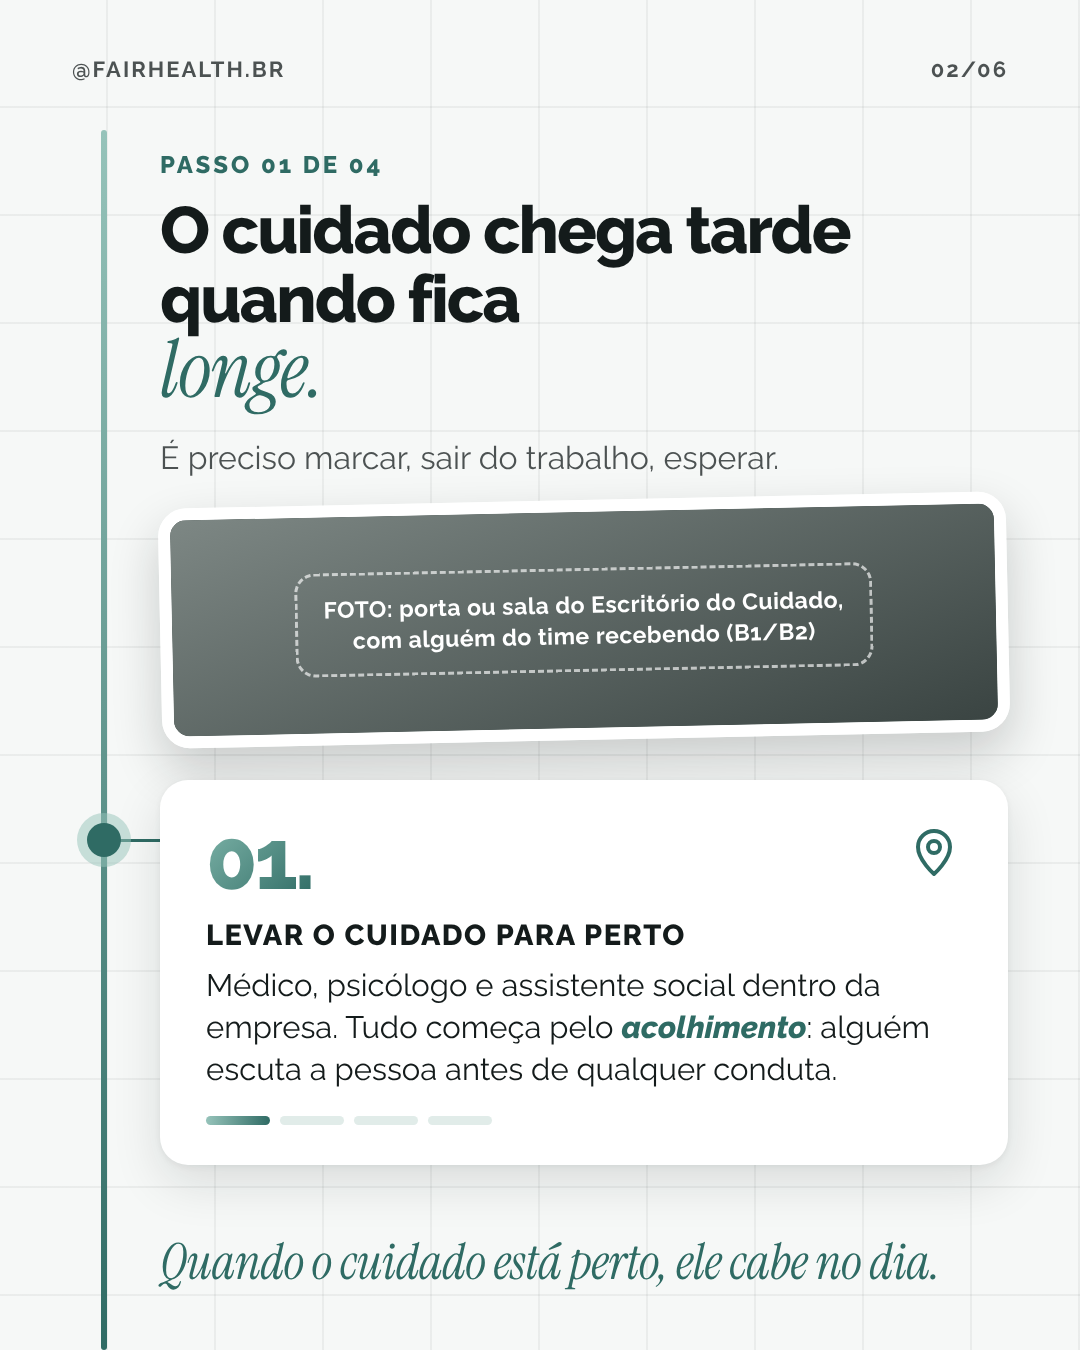
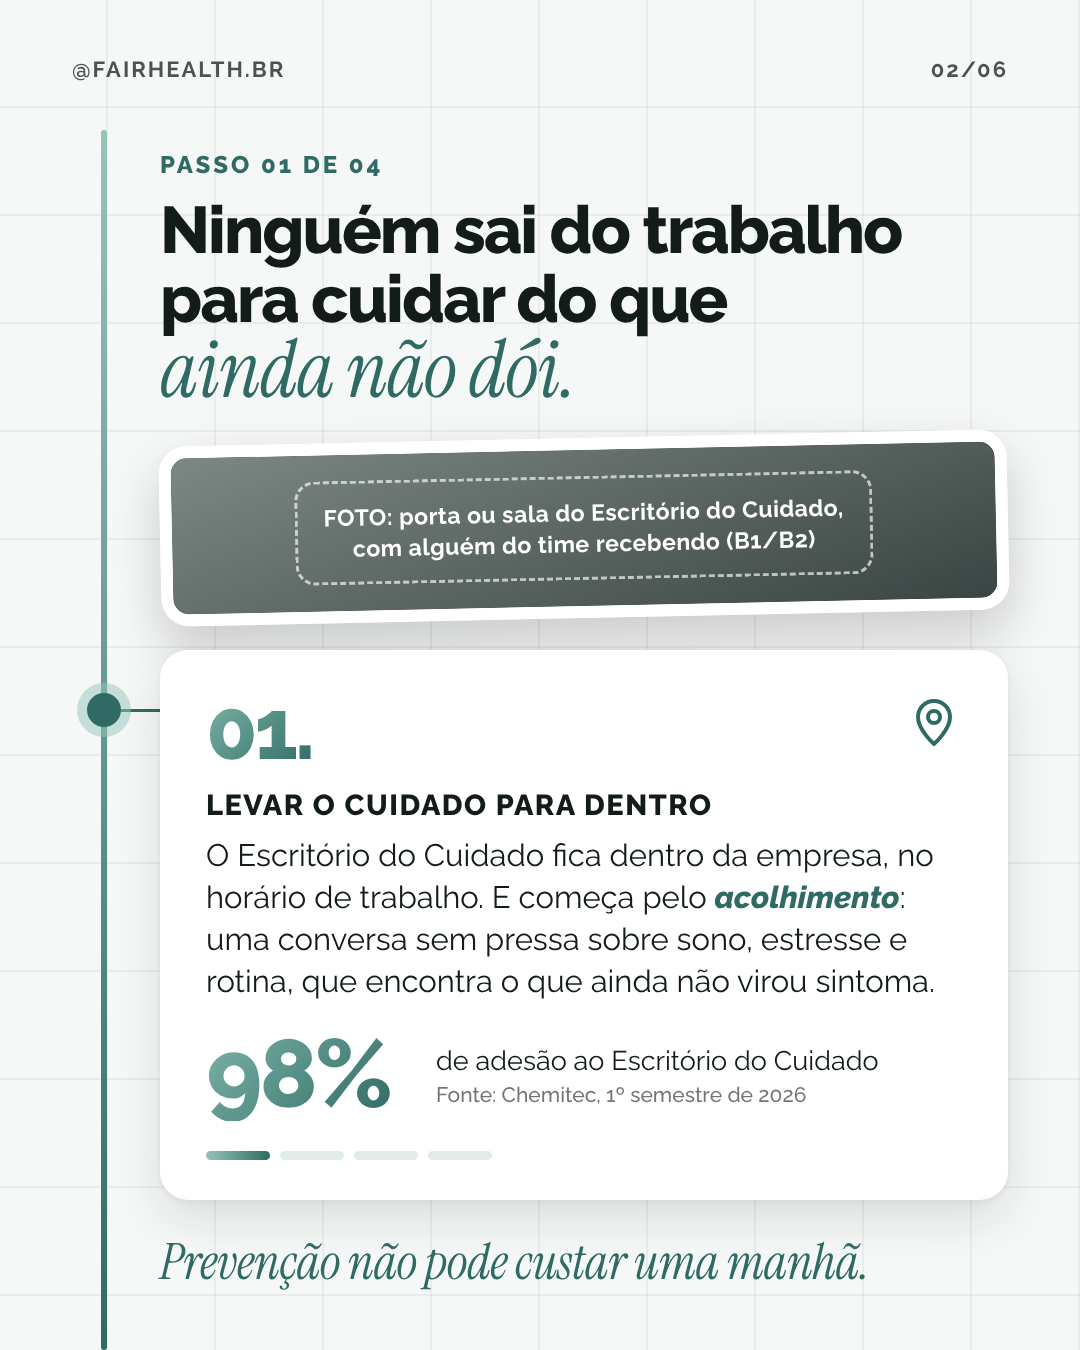
30/10 slide 2: stronger argument (nobody leaves work for what does not hurt yet) with Chemitec adhesion proof
Claude-Session: https://claude.ai/code/session_01WTGmTaRhjyKBgMjzkeci7z

Changed region(s): [[0.0611, 0.1556, 0.9472, 0.9644], [0.0611, 0.5911, 0.1222, 0.6533]]

diff --git a/instagram/posts/rotina/canva.html b/instagram/posts/rotina/canva.html
@@ -155,26 +155,30 @@ body{background:none;margin:0}
   <p class="pil-t" style="left:72px;bottom:115px;width:716px;font-size:30px;color:#fff">4 passos para o cuidado <b>sair da campanha</b> →</p>
 </section>
 
-<!-- 2 · PASSO 01: o problema (o cuidado chega tarde porque fica longe) e o acolhimento.
+<!-- 2 · PASSO 01: por que a prevenção não acontece (ninguém sai do trabalho pelo que não dói),
+     o Escritório dentro da empresa, o acolhimento e a prova de adesão.
      Nos títulos, cada linha é explícita e o trecho em serif fica numa caixa própria (o Canva
      não mistura fontes numa caixa só). -->
 <section data-document-role="page" class="slide ed grade" id="r-02">
   <div class="topo"><span>@fairhealth.br</span><span>02/06</span></div>
   <div class="trilho"></div>
   <p class="rotulo abs" style="left:160px;top:150px">Passo 01 de 04</p>
-  <h2 class="h tit" style="top:196px">O cuidado chega tarde<br>quando fica</h2>
-  <p class="serif tit-s" style="top:330px">longe.</p>
-  <p class="txt abs" style="left:160px;right:72px;top:436px;opacity:.75">É preciso marcar, sair do trabalho, esperar.</p>
-  <div class="recorte" style="top:500px;height:240px"><div class="img" id="foto-2"><div class="aviso">FOTO: porta ou sala do Escritório do Cuidado,<br>com alguém do time recebendo (B1/B2)</div></div></div>
-  <div class="ponto" style="top:840px"></div><div class="liga" style="top:840px"></div>
-  <div class="cartao" style="top:780px">
+  <h2 class="h tit" style="top:196px">Ninguém sai do trabalho<br>para cuidar do que</h2>
+  <p class="serif tit-s" style="top:330px">ainda não dói.</p>
+  <div class="recorte" style="top:438px;height:180px"><div class="img" id="foto-2"><div class="aviso">FOTO: porta ou sala do Escritório do Cuidado,<br>com alguém do time recebendo (B1/B2)</div></div></div>
+  <div class="ponto" style="top:710px"></div><div class="liga" style="top:710px"></div>
+  <div class="cartao" style="top:650px">
     <span class="n">01.</span>
     <div class="ic"><svg viewBox="0 0 56 56" fill="none" stroke="#2F6B64" stroke-width="4" stroke-linecap="round" stroke-linejoin="round"><path d="M28 50s16-14 16-27a16 16 0 0 0-32 0c0 13 16 27 16 27z"/><circle cx="28" cy="23" r="6"/></svg></div>
-    <p class="t">Levar o cuidado para perto</p>
-    <p class="c">Médico, psicólogo e assistente social dentro da empresa. Tudo começa pelo <b>acolhimento</b>: alguém escuta a pessoa antes de qualquer conduta.</p>
+    <p class="t">Levar o cuidado para dentro</p>
+    <p class="c">O Escritório do Cuidado fica dentro da empresa, no horário de trabalho. E começa pelo <b>acolhimento</b>: uma conversa sem pressa sobre sono, estresse e rotina, que encontra o que ainda não virou sintoma.</p>
+    <div style="position:relative;height:100px;margin-top:22px">
+      <span class="n abs" style="left:0;top:0;font-size:96px">98%</span>
+      <div class="abs" style="left:230px;right:0;top:18px"><p class="c" style="margin:0;font-size:27px;line-height:1.3">de adesão ao Escritório do Cuidado</p><p class="fonte" style="margin-top:4px">Fonte: Chemitec, 1º semestre de 2026</p></div>
+    </div>
     <div class="barra"><i class="on"></i><i></i><i></i><i></i></div>
   </div>
-  <p class="fecho abs" style="left:160px;right:72px;bottom:62px">Quando o cuidado está perto, ele cabe no dia.</p>
+  <p class="fecho abs" style="left:160px;right:72px;bottom:62px">Prevenção não pode custar uma manhã.</p>
 </section>
 
 <!-- 3 · PASSO 02 + CTA: plantões com dia e hora. A semana é o visual do slide. -->

diff --git a/instagram/posts/rotina/slides.html b/instagram/posts/rotina/slides.html
@@ -112,26 +112,30 @@ body{background:none;margin:0}
   <p class="pil-t" style="left:72px;bottom:115px;width:716px;font-size:30px;color:#fff">4 passos para o cuidado <b>sair da campanha</b> →</p>
 </section>
 
-<!-- 2 · PASSO 01: o problema (o cuidado chega tarde porque fica longe) e o acolhimento.
+<!-- 2 · PASSO 01: por que a prevenção não acontece (ninguém sai do trabalho pelo que não dói),
+     o Escritório dentro da empresa, o acolhimento e a prova de adesão.
      Nos títulos, cada linha é explícita e o trecho em serif fica numa caixa própria (o Canva
      não mistura fontes numa caixa só). -->
 <section class="slide ed grade" id="r-02">
   <div class="topo"><span>@fairhealth.br</span><span>02/06</span></div>
   <div class="trilho"></div>
   <p class="rotulo abs" style="left:160px;top:150px">Passo 01 de 04</p>
-  <h2 class="h tit" style="top:196px">O cuidado chega tarde<br>quando fica</h2>
-  <p class="serif tit-s" style="top:330px">longe.</p>
-  <p class="txt abs" style="left:160px;right:72px;top:436px;opacity:.75">É preciso marcar, sair do trabalho, esperar.</p>
-  <div class="recorte" style="top:500px;height:240px"><div class="img" id="foto-2"><div class="aviso">FOTO: porta ou sala do Escritório do Cuidado,<br>com alguém do time recebendo (B1/B2)</div></div></div>
-  <div class="ponto" style="top:840px"></div><div class="liga" style="top:840px"></div>
-  <div class="cartao" style="top:780px">
+  <h2 class="h tit" style="top:196px">Ninguém sai do trabalho<br>para cuidar do que</h2>
+  <p class="serif tit-s" style="top:330px">ainda não dói.</p>
+  <div class="recorte" style="top:438px;height:180px"><div class="img" id="foto-2"><div class="aviso">FOTO: porta ou sala do Escritório do Cuidado,<br>com alguém do time recebendo (B1/B2)</div></div></div>
+  <div class="ponto" style="top:710px"></div><div class="liga" style="top:710px"></div>
+  <div class="cartao" style="top:650px">
     <span class="n">01.</span>
     <div class="ic"><svg viewBox="0 0 56 56" fill="none" stroke="#2F6B64" stroke-width="4" stroke-linecap="round" stroke-linejoin="round"><path d="M28 50s16-14 16-27a16 16 0 0 0-32 0c0 13 16 27 16 27z"/><circle cx="28" cy="23" r="6"/></svg></div>
-    <p class="t">Levar o cuidado para perto</p>
-    <p class="c">Médico, psicólogo e assistente social dentro da empresa. Tudo começa pelo <b>acolhimento</b>: alguém escuta a pessoa antes de qualquer conduta.</p>
+    <p class="t">Levar o cuidado para dentro</p>
+    <p class="c">O Escritório do Cuidado fica dentro da empresa, no horário de trabalho. E começa pelo <b>acolhimento</b>: uma conversa sem pressa sobre sono, estresse e rotina, que encontra o que ainda não virou sintoma.</p>
+    <div style="position:relative;height:100px;margin-top:22px">
+      <span class="n abs" style="left:0;top:0;font-size:96px">98%</span>
+      <div class="abs" style="left:230px;right:0;top:18px"><p class="c" style="margin:0;font-size:27px;line-height:1.3">de adesão ao Escritório do Cuidado</p><p class="fonte" style="margin-top:4px">Fonte: Chemitec, 1º semestre de 2026</p></div>
+    </div>
     <div class="barra"><i class="on"></i><i></i><i></i><i></i></div>
   </div>
-  <p class="fecho abs" style="left:160px;right:72px;bottom:62px">Quando o cuidado está perto, ele cabe no dia.</p>
+  <p class="fecho abs" style="left:160px;right:72px;bottom:62px">Prevenção não pode custar uma manhã.</p>
 </section>
 
 <!-- 3 · PASSO 02 + CTA: plantões com dia e hora. A semana é o visual do slide. -->
